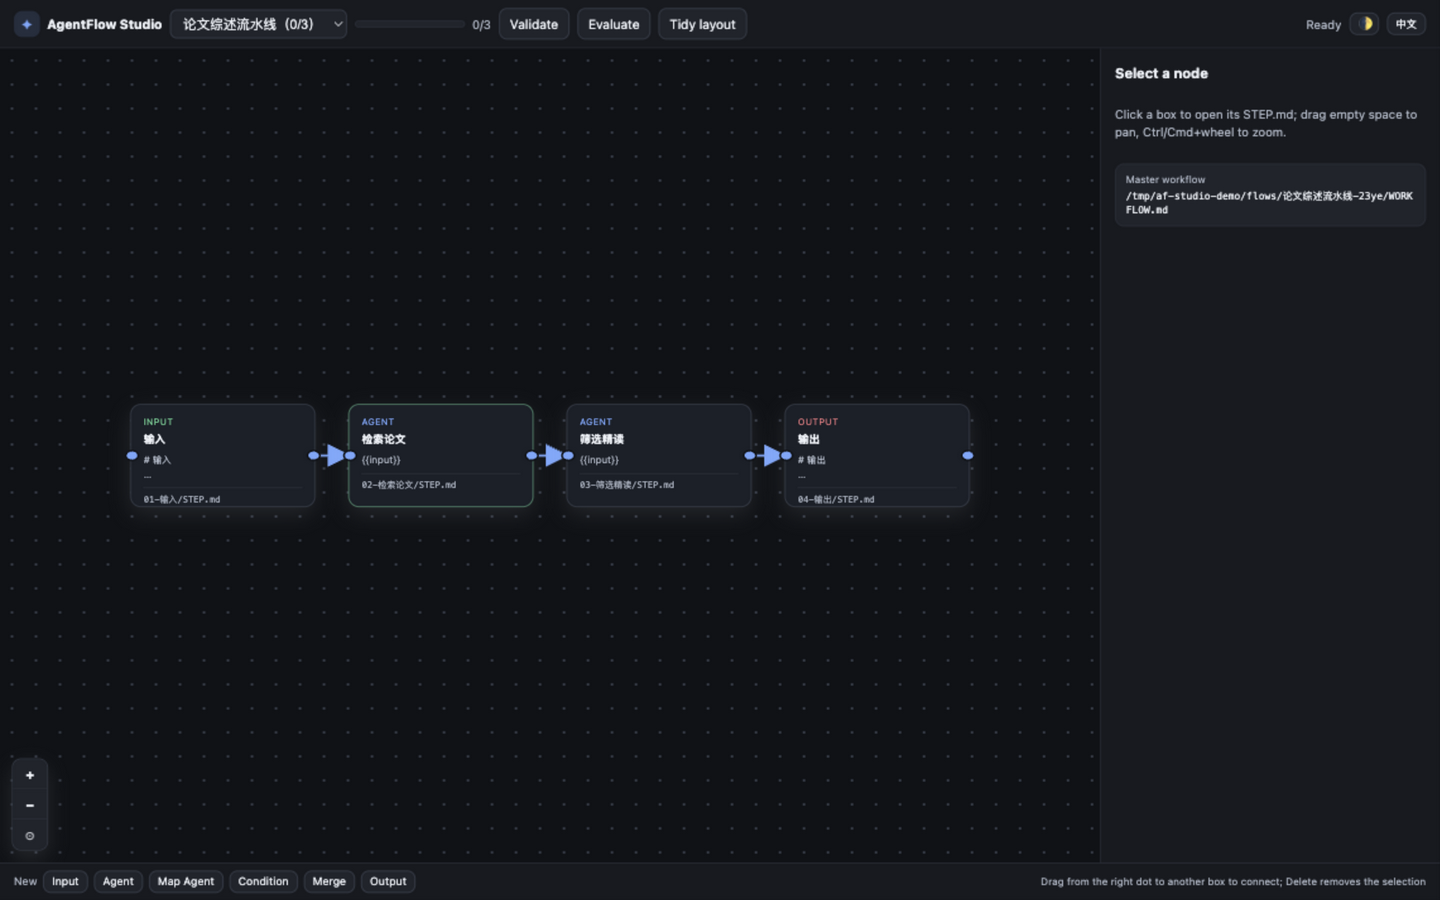
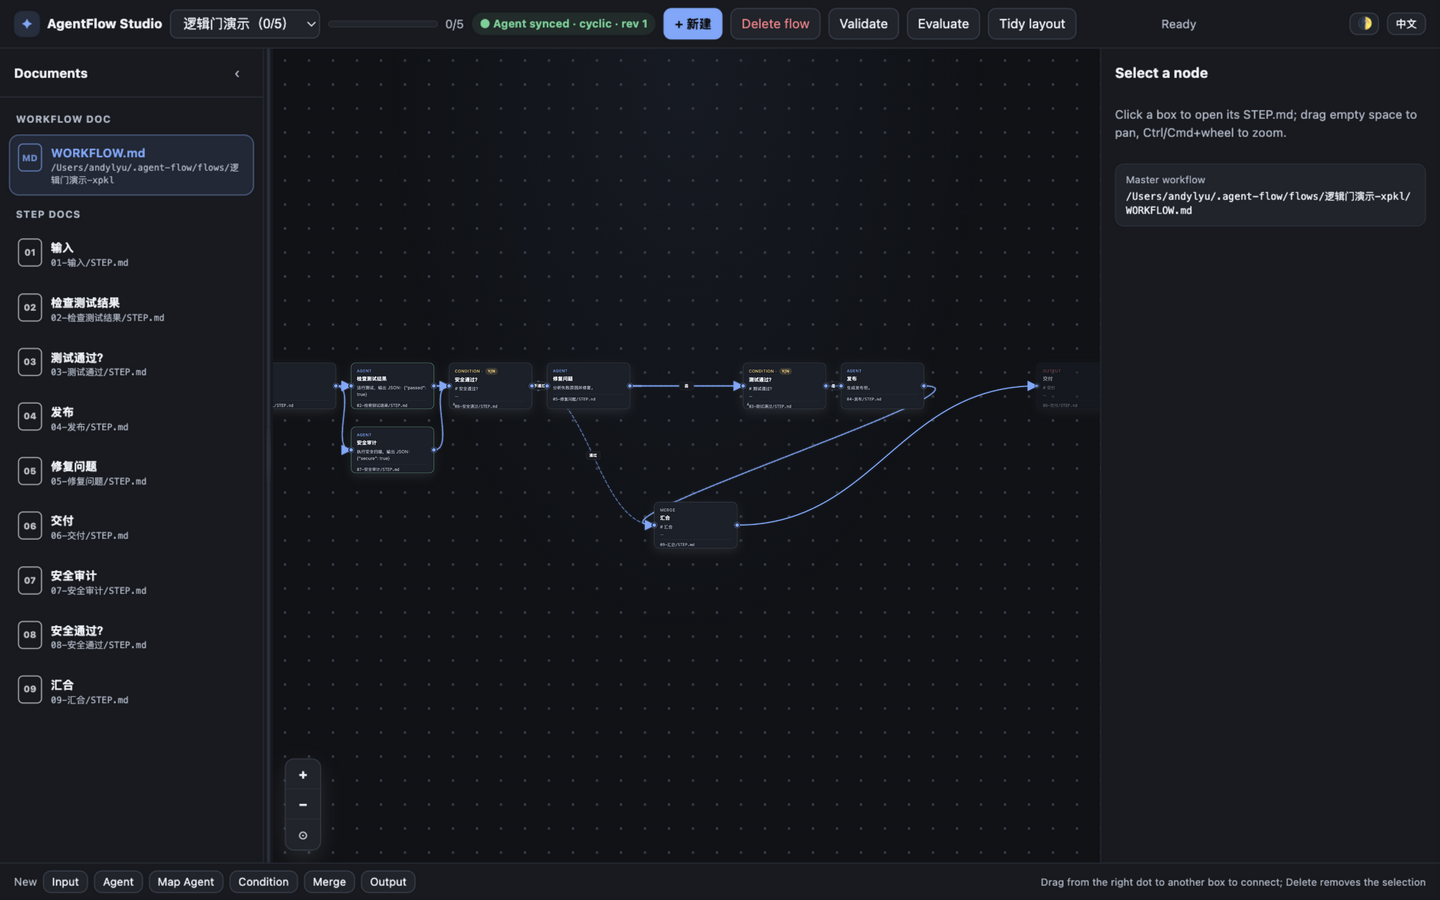
docs: rewrite README in DeepSeek Flow format and refresh screenshots
- Mirror the dsh-deepseek-flow README layout: centered badges, screenshot grid, feature list, command and gate tables, design boundaries, local development, troubleshooting, uninstall
- Add an Open-source components section covering the DeepSeek Flow core modules and the pixelpets pet shell
- Refresh docs/shots with the new v0.2.3 HD screenshots (en/zh light/dark/logic + pet)

diff --git a/README.md b/README.md
@@ -1,12 +1,49 @@
-# AgentFlow
+<h1 align="center">AgentFlow</h1>
 
-AgentFlow is a Markdown-first workflow CLI and local Studio for coding agents. It supports ZCode, Claude Code, Codex CLI, or a plain terminal.
+<p align="center"><strong>See the workflow. Keep Markdown portable. Execute with deterministic gates.</strong></p>
+
+<p align="center">A Markdown-first workflow CLI, visual Studio canvas, and desktop pet for any coding agent.</p>
+
+<p align="center"><a href="https://agentflow.kanghelyu.org/">🌐 Official website — agentflow.kanghelyu.org</a></p>
+
+<p align="center">
+  <a href="https://github.com/kanghelyu/agent-flow/releases"><img alt="GitHub release" src="https://img.shields.io/github/v/release/kanghelyu/agent-flow?style=flat-square&amp;logo=github&amp;label=release"></a>
+  <a href="LICENSE"><img alt="MIT license" src="https://img.shields.io/badge/license-MIT-0EA5E9?style=flat-square"></a>
+  <a href="https://github.com/kanghelyu/agent-flow"><img alt="Zero dependencies" src="https://img.shields.io/badge/dependencies-zero-22C55E?style=flat-square"></a>
+</p>
+
+<p align="center"><strong>English</strong> · <a href="README.zh-CN.md">简体中文</a></p>
+
+AgentFlow turns long agent sessions into step-by-step Markdown workflows. Each workflow is a `WORKFLOW.md` master document plus one `STEP.md` workspace per step; `flow.json` is derived metadata and `state.json` tracks execution. It works with **ZCode, Claude Code, Codex CLI, or a plain terminal** — no plugin host required.
+
+It is deliberately an editor-plus-runtime: AgentFlow validates topology, evaluates Boolean gates deterministically, and keeps execution bookkeeping — the Agent itself performs the actual work in the current session.
+
+<p align="center">
+  <img src="docs/shots/en-dark.png" width="49%" alt="AgentFlow Studio in dark mode">
+  <img src="docs/shots/en-light.png" width="49%" alt="AgentFlow Studio in light mode">
+</p>
+
+<p align="center">
+  <img src="docs/shots/en-logic.png" width="49%" alt="Deterministic gate evaluation">
+  <img src="docs/shots/pet-dark.png" width="18%" alt="AgentFlow desktop pet">
+</p>
+
+## What it gives you
+
+- **Markdown as the source of truth** — one master `WORKFLOW.md`, plus one `STEP.md` workspace for each step; `af render` rebuilds the structure block after manual edits.
+- **A real visual canvas** — create, move, connect, reconnect, label, and delete nodes and arrows; bilingual UI with light/dark themes.
+- **Deterministic logic gates** — eight gate types (IF/ELSE, AND, OR, NOT, NAND, NOR, XOR, XNOR) with strict `truthy` / `falsy` / `nonEmpty` predicates. Branching is decided by a truth table, not an LLM vibe check.
+- **A real execution runtime** — `af next` returns only READY Agent nodes; `af done --result` automatically resolves conditions, merges branches, marks skipped paths, and emits the next batch. Stale submissions are rejected via revision + execution fingerprints.
+- **Explicit control loops** — "check fails → fix → check again" is allowed as an explicit loop with a documented exit condition; the Runtime propagates in a stable order for a finite number of rounds and stays waiting instead of running forever.
+- **Resumable bookkeeping** — `next / done / undo / status / evaluate` give session-less agents an explicit sense of progress; blocked and ready steps are computed, not guessed.
+- **A desktop pet that watches your flow** — an optional pixel-art Tuxedo cat polls the local Studio every 1.8 s and reacts to `idle / working / done / error`; right-click menu for size, coat, play area, low-power mode, and more.
+- **Cross-platform installers** — `install.sh` for macOS/Linux and `install.ps1` for Windows; skills are dropped into ZCode, Claude Code, and Codex directories automatically.
 
 ## Quick start
 
 Requirements: Node.js 18 or newer and npm.
 
-macOS/Linux:
+macOS / Linux:
 
 ```bash
 bash install.sh
@@ -23,21 +60,102 @@ af --version
 af doctor
 ```
 
-The PowerShell command must be run from the AgentFlow directory.
-
 Start the browser Studio without opening a browser automatically:
 
 ```bash
 af studio --no-open
 ```
 
-The default data directory is `~/.agent-flow`. Set `AF_HOME` or pass `--root <directory>` to use another location. Studio binds to `127.0.0.1:4317`; use `--port` or `AF_STUDIO_PORT` when another service owns that port.
+The default storage root is `~/.agent-flow` (override with `AF_HOME` or `--root`). Studio binds to `127.0.0.1:4317`; use `--port` or `AF_STUDIO_PORT` when that port is taken.
+
+## Your first workflow
+
+```bash
+af create "Fix the login issue" \
+  --desc "Identify the cause, implement the fix, and pass tests" \
+  --steps "Reproduce issue;Identify root cause;Implement fix;Run tests;Final acceptance"
+af validate <flow-id>
+af studio
+```
+
+A typical workflow directory looks like this:
+
+```text
+~/.agent-flow/flows/<flow-id>/
+├── WORKFLOW.md
+├── 01-reproduce-issue/
+│   └── STEP.md
+├── 02-identify-root-cause/
+│   └── STEP.md
+├── 03-implement-fix/
+│   └── STEP.md
+├── 04-run-tests/
+│   └── STEP.md
+├── 05-final-acceptance/
+│   └── STEP.md
+├── flow.json
+└── state.json
+```
+
+## Command reference
+
+| Command | Purpose |
+| --- | --- |
+| `af create <name> --steps "A;B;C"` | Create a linear workflow. |
+| `af create --json flow.json` | Import a complete workflow definition (DeepSeek Flow JSON is compatible). |
+| `af list` / `af read <id>` | Discover workflows; read the master document, step documents, revision, graph, and logic contract. |
+| `af validate <id>` | Deterministic structure / connectivity / gate-semantics validation. |
+| `af evaluate <id> --values '{...}'` | Diagnostic truth-table evaluation; never advances the Runtime. |
+| `af next <id> --json` | Compile the latest revision and return only READY Agent nodes. |
+| `af done <id> <nodeId> --result '{...}' --revision <rev>` | Commit a structured result; the Runtime resolves gates automatically. |
+| `af result <id> <nodeId> '{...}'` | Attach or update a node result. |
+| `af undo <id> <nodeId>` | Clear a node and its downstream completion/results. |
+| `af status <id>` | Progress overview: done / ready / blocked / skipped / gates. |
+| `af render <id>` | Rebuild the `WORKFLOW.md` structure block after manual edits. |
+| `af delete <id> --yes` | Archive-delete into `<root>/trash/` (recoverable). |
+| `af studio [--port N] [--no-open]` | Start the local canvas (default `127.0.0.1:4317`). |
+| `af doctor [--json]` | Check Node, storage root, Studio assets, and installed agent skills. |
+
+## Logic gates
+
+Condition boxes support eight gate types. Gate metadata controls connection labels, outgoing limits, and the Boolean contract exported to the Runtime.
+
+| Gate | Connection behavior | Boolean result |
+| --- | --- | --- |
+| **IF / ELSE** | One **Yes** and one **No** branch at most. | Selects exactly the branch matching the condition result. |
+| **AND / NAND** | At least two incoming edges. | All operands must be true (NAND negates). |
+| **OR / NOR** | At least two incoming edges. | Any operand true (NOR negates). |
+| **XOR / XNOR** | At least two incoming edges. | Odd number of true inputs (XNOR negates). |
+| **NOT** | Exactly one incoming edge. | Negates its single input. |
+
+Duplicate node/edge IDs, dangling edges, self-loops, duplicate Yes/No branches, excess IF/ELSE or NOT arrows, invalid aggregate arity, unreachable nodes, and natural-language predicates are rejected with actionable validation messages. Explicit control loops are allowed when their exit condition, maximum attempt count, or manual stop mechanism is documented in the Markdown; the Runtime propagates them in a stable order for a finite number of rounds.
+
+```json
+{
+  "id": "confirmed",
+  "kind": "condition",
+  "data": { "label": "Confirmed?", "gateType": "ifElse", "predicate": "truthy" }
+}
+```
+
+## Execution model
+
+The AgentFlow Runtime **does not perform Agent steps for you**, but it automatically executes Condition / Merge and persists branch state:
+
+```text
+af next → read STEP.md → do the work → af done --result → Runtime resolves gates → next batch
+```
+
+- `af next` returns the current `flowRevision`, READY nodes, gate state, `edgeStates`, and `skipped` paths.
+- `af done --result` saves `results[nodeId]`, evaluates resolvable conditions, writes active/inactive edges, marks skipped branches, handles Merge, and recalculates the next batch.
+- If Studio changes the current node or an upstream node mid-work, the old submission returns `STALE_WORKFLOW` — discard it and run `af next` again. Unrelated branch changes are tolerated via execution fingerprints.
+- `af evaluate` is a stateless diagnostic; do not treat it as part of the execution loop.
 
 ## Desktop pet
 
-The desktop pet is optional. The CLI and browser Studio work without Electron.
+The pet is optional — the CLI and browser Studio work without Electron.
 
-macOS/Linux:
+macOS / Linux:
 
 ```bash
 ~/.agent-flow/studio-pet/run-pet.sh
@@ -49,24 +167,78 @@ Windows PowerShell:
 & "$HOME\.agent-flow\studio-pet\run-pet.ps1"
 ```
 
-The first launch downloads the pinned Electron runtime into `studio-pet/node_modules`. Set `AF_ELECTRON` to an existing Electron executable to use a system or managed runtime. The pet uses the primary display. Linux transparency, tray icons, and always-on-top behavior depend on the desktop environment; X11 is generally more predictable than Wayland.
+First launch can install the pinned Electron runtime into `studio-pet/node_modules`; set `AF_ELECTRON` to use an existing Electron instead. Right-click menu: size (`0.2x–3.0x`), coat (14 colors), play area, low-power mode, always-on-top, language, open, quit. Dragging the pet never raises the Studio window. Linux transparency, tray icons, and always-on-top depend on the desktop environment; X11 is generally more predictable than Wayland.
 
-## Skills
+## Open-source components
 
-The installer synchronizes `skills/agent-flow` to:
+AgentFlow is MIT licensed, and it builds on two open-source projects:
 
-- `~/.zcode/skills/agent-flow`
-- `~/.claude/skills/agent-flow`
-- `$CODEX_HOME/skills/agent-flow` (or `~/.codex/skills/agent-flow`)
+- **DeepSeek Flow core modules** — the workflow core (`document-workflow.js`, `condition-gates.js`, `flow-validation.js`, `logic-semantics.js`) is extracted from [kanghelyu/dsh-deepseek-flow](https://github.com/kanghelyu/dsh-deepseek-flow) (MIT). The files share the same DAG validation, Boolean-gate semantics, and Markdown layout, so `flow.json` produced by either side is interchangeable: dsh-exported JSON can be imported with `af create --json`, and af's `flow.json` can be handed to `dsh flow_put`.
+- **pixelpets** — the desktop pet shell (`studio-pet/`) is adapted from [JOhnsonKC201/pixelpets](https://github.com/JOhnsonKC201/pixelpets) (MIT): a pixel-art cat overlay, stripped to cat-only plus the AgentFlow status bridge. See `studio-pet/ATTRIBUTION.md` for the full license text and a detailed what-we-kept / what-we-stripped list.
 
-If `af` is not on `PATH`, run it directly:
+## Design boundaries
+
+AgentFlow deliberately does **not** provide:
+
+- model calls, tool execution, or credentials of any kind — the Agent does the work;
+- triggers, schedules, webhooks, or hosted execution;
+- a lock-in database — Markdown is the source of truth and `flow.json` is derived metadata.
+
+That boundary keeps it portable: the same workflow directory works with ZCode, Claude Code, Codex CLI, or a plain shell.
+
+## Local development
 
 ```bash
-node ~/.agent-flow/bin/af.mjs --version
+git clone https://github.com/kanghelyu/agent-flow.git
+cd agent-flow
+node bin/af.mjs --version
 ```
 
-See [INSTALL.md](INSTALL.md), [RUNTIME.md](RUNTIME.md), and [README.zh-CN.md](README.zh-CN.md) for platform details.
+Useful checks:
+
+```bash
+npm run check
+npm test
+ELECTRON_BIN=<path-to-electron> npm run test:pet-size
+```
+
+<details>
+<summary>Repository layout</summary>
+
+```text
+agent-flow/
+├── bin/                 af CLI entry point
+├── lib/                 Workflow core: validation, gates, runtime, document sync
+├── skills/              Bundled agent skill (SKILL.md)
+├── studio/              Local Studio canvas (HTTP + SSE, zero dependencies)
+├── studio-pet/          Optional desktop pet (Electron shell from pixelpets)
+├── install.sh           macOS / Linux installer
+├── install.ps1          Windows installer
+├── test/                CLI and Studio contract tests
+└── docs/shots/          README screenshots
+```
+
+</details>
+
+## Troubleshooting
+
+- **`af` is not found:** add `~/.local/bin` to `PATH`, or run `node ~/.agent-flow/bin/af.mjs`.
+- **The Studio tab does not open:** run `af studio --no-open` and visit the printed URL, or pass another `--port`.
+- **The pet does not start:** run `af studio --no-open` first and check `127.0.0.1`; on Linux prefer an X11 session; set `AF_ELECTRON` if npm cannot download Electron.
+- **`af done` returns `STALE_WORKFLOW`:** discard the old submission and run `af next <id>` again.
+- **`af validate` rejects a retry loop:** model it as an explicit control loop with a documented exit condition, or as a bounded retry step with a terminal failure branch.
+- **The pet menu is in the wrong language:** use the Language submenu (Follow system / 中文 / English).
+- **Recovering a deleted workflow:** archived flows live under `<root>/trash/<timestamp>-<id>/`; copy the directory back into `flows/`.
+
+## Uninstall
+
+```bash
+rm -rf ~/.agent-flow ~/.local/bin/af
+rm -rf ~/.zcode/skills/agent-flow ~/.claude/skills/agent-flow "$CODEX_HOME/skills/agent-flow"
+```
+
+Pet settings live in Electron's platform userData directory (`~/Library/Application Support/agent-flow-studio-pet` on macOS, `%APPDATA%\agent-flow-studio-pet` on Windows) and are separate from CLI workflow data.
 
 ## License
 
-AgentFlow is MIT licensed. The desktop pet shell includes the MIT-licensed [pixelpets](https://github.com/JOhnsonKC201/pixelpets) project; see [ATTRIBUTION.md](ATTRIBUTION.md).
+[MIT](LICENSE). The desktop pet shell includes the MIT-licensed [pixelpets](https://github.com/JOhnsonKC201/pixelpets) project; see [ATTRIBUTION.md](ATTRIBUTION.md).
